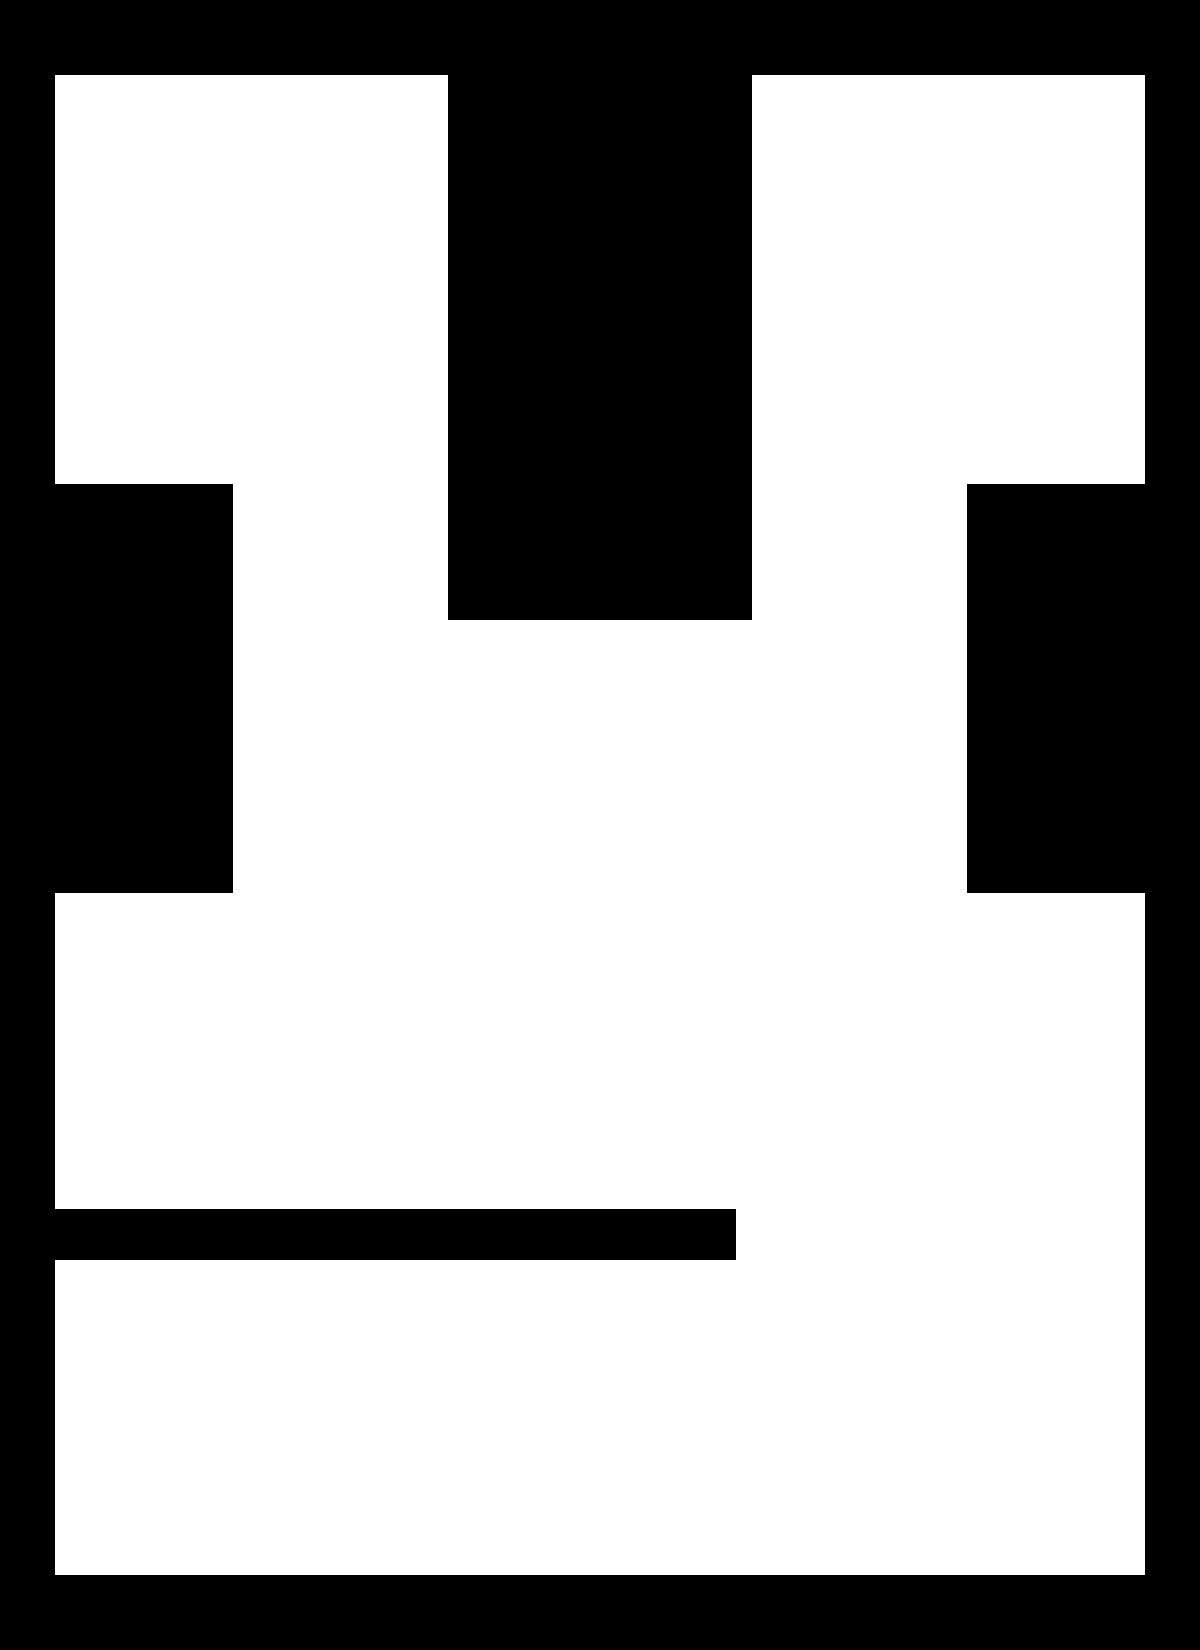
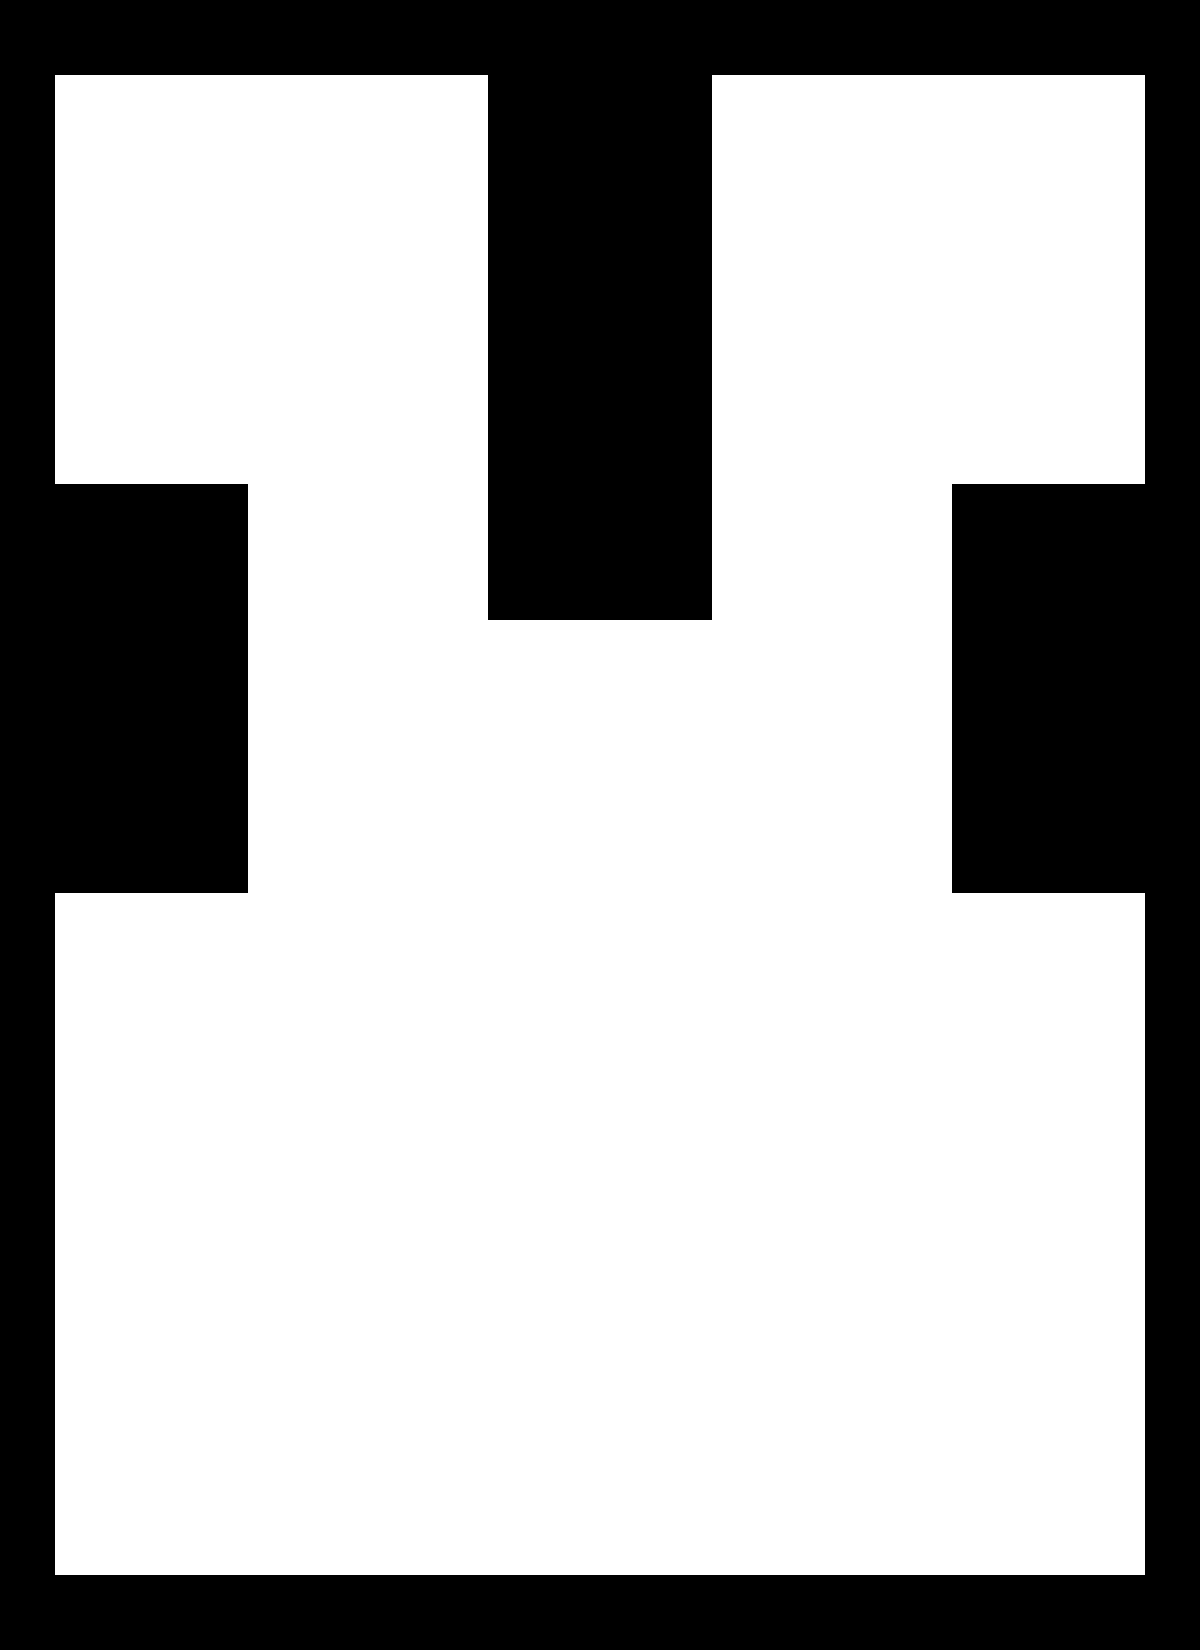
Images cropped now to get correct proportions

diff --git a/STL/STLProcessor.py b/STL/STLProcessor.py
@@ -188,21 +188,22 @@ class STLProcessor:
         throughFace = 'topdown'
         generateSlices(self.filename, throughFace, sliceNum)
         facePath = self.path + '/' + throughFace
-        self.imageSlicesTopDown = self._getImageSlices(facePath)
+        self.imageSlicesTopDown = self._getImageSlices(facePath, 55, 1145, 57, 1196)
         # Generate slices for left right
         generateSlices('face3.stl', 'leftright', sliceNum)
-        self.imageSlicesLeftRight = self._getImageSlices('STL/output/leftright')
+        self.imageSlicesLeftRight = self._getImageSlices('STL/output/leftright', 55, 1145, 78, 1645)
         # Generate slices for front back
         generateSlices('face2.stl', 'frontback', sliceNum)
-        self.imageSlicesFrontBack = self._getImageSlices('STL/output/frontback')
+        self.imageSlicesFrontBack = self._getImageSlices('STL/output/frontback', 55, 1145, 78, 1645)
 
-    def _getImageSlices(self, facePath):
+    def _getImageSlices(self, facePath, x0, x1, y0, y1):
         imageSlices = []
         for image_path in os.listdir(facePath):
             # create the full input path and read the file
             input_path = os.path.join(facePath, image_path)
             img = cv2.imread(input_path, 0)
-            imageSlices.append(img)
+            croppedIm = img[y0:y1, x0:x1]
+            imageSlices.append(croppedIm)
         return imageSlices
 
     def _getRotated(self):

diff --git a/main.py b/main.py
@@ -1,9 +1,7 @@
 USE_GUI = True
 USE_SIM = True
 AUTO_START = False
-AUTO_TOOLPATH = False
-
-import time
+AUTO_TOOLPATH = True
 
 from Controller import Controller
 
@@ -54,7 +52,7 @@ def main():
     # ]))
     #
 
-    calibrationRoutine()
+    # calibrationRoutine()
 
     if AUTO_TOOLPATH:
         stlProcessor.generateCommands('part0.STL', controller)

diff --git a/config.py b/config.py
@@ -83,7 +83,7 @@ configurationMap = {
     }, 'other': {
         'infVal': 9999,
         'homeVal': -10,
-        'mmPerPixelRatio': 80/1200,
+        'mmPerPixelRatio': 80/(1200-55-54), # Using the y direction
         'mmError': 1.0,
         'speedMultiplier': 10,
         'numRotationSteps': 200,

diff --git a/Commands/CommandGenerator.py b/Commands/CommandGenerator.py
@@ -110,6 +110,7 @@ class CommandGenerator:
             radius (double): Radius of the circle being cut out.
 
         """
+        print(z0, z1, radius)
         controller = self.controller
         if z0 > z1:
             zBot = z1
